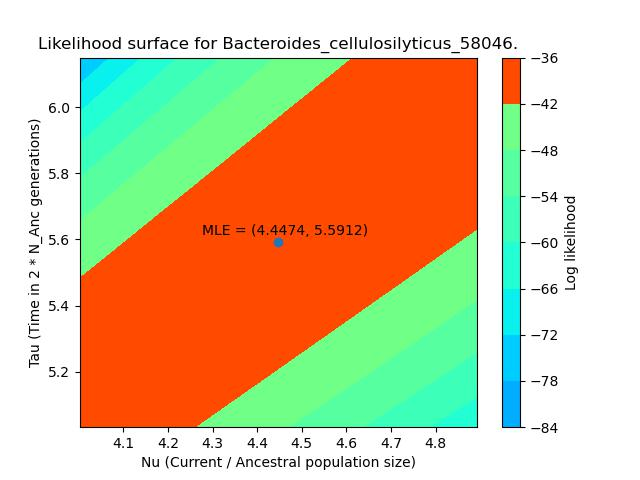
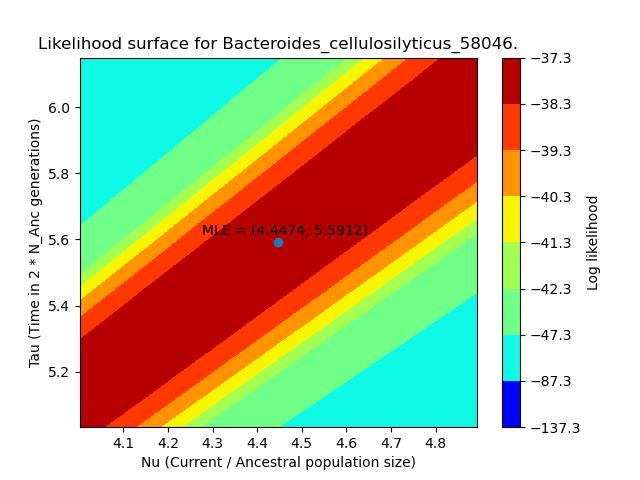
B. cell

diff --git a/Scripts/plot_likelihood.py b/Scripts/plot_likelihood.py
@@ -513,7 +513,7 @@ class PlotLikelihood():
                           max_likelihood - 1,
                           max_likelihood]
                 midnorm = MidpointNormalize(vmin=max_likelihood-100., vcenter=max_likelihood-5, vmax=max_likelihood)
-                contourplot = ax.contourf(X, Y, Z, norm=midnorm, cmap=cm.jet)
+                contourplot = ax.contourf(X, Y, Z, norm=midnorm, levels=levels, cmap=cm.jet)
                 # ticks = numpy.arange(z_min, z_max, 1.0)
                 cbar = fig.colorbar(contourplot, label='Log likelihood') # Add a colorbar to a plot
                 # cbar.ax.set_ylabel('Log likelihood')
